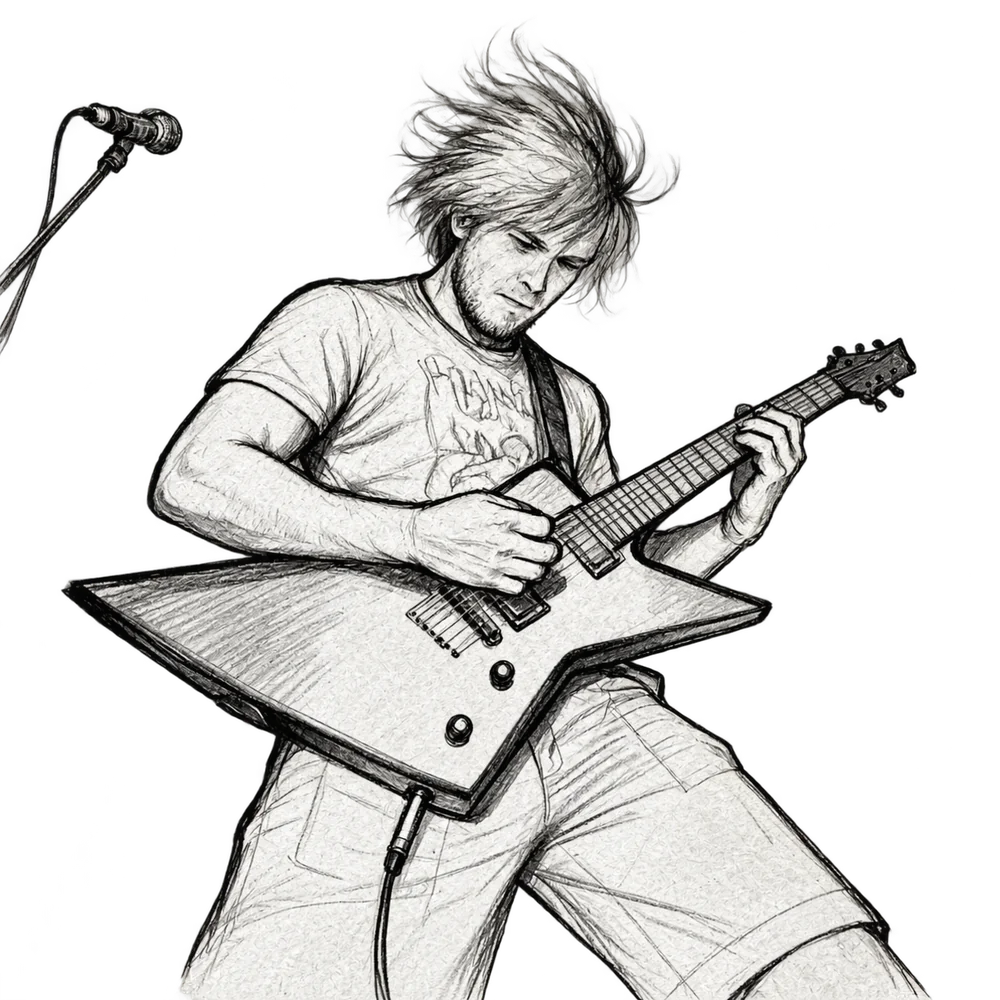
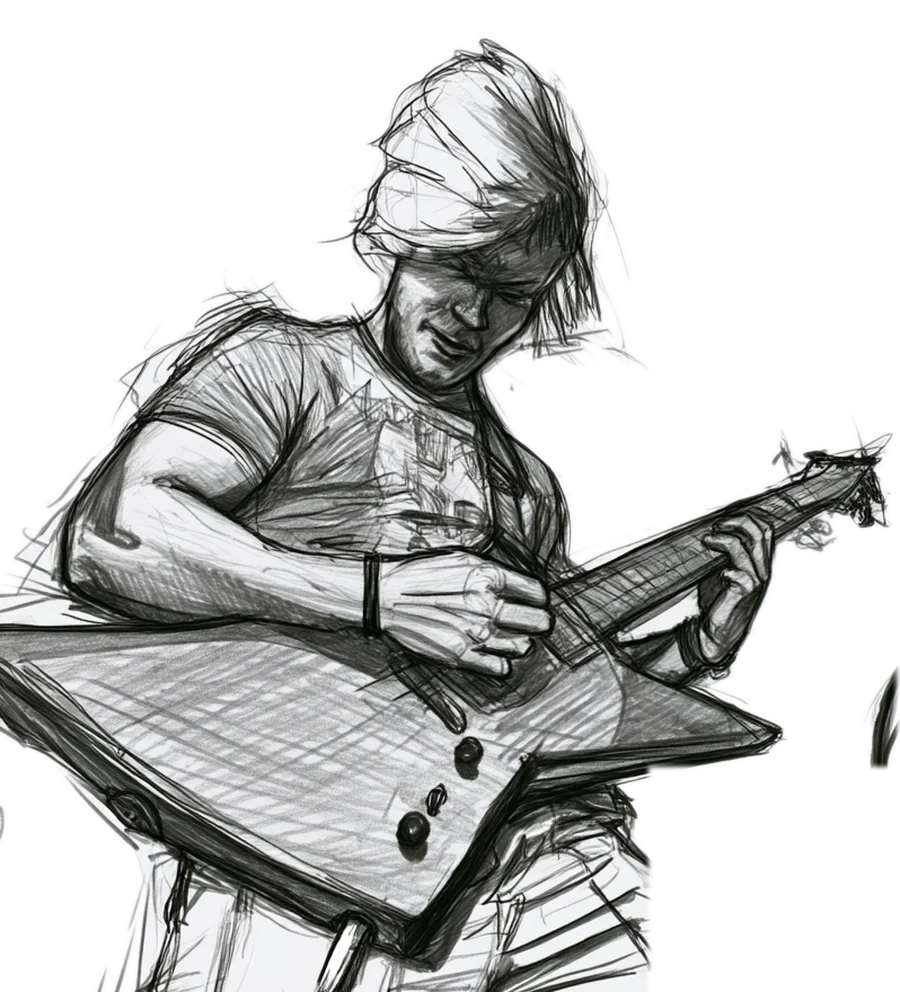
Replace guitarist illustration with new sketch
Claude-Session: https://claude.ai/code/session_01W892ypoJhWwJLEy51dvba3

diff --git a/trigger/site/index.html b/trigger/site/index.html
@@ -359,7 +359,7 @@
   <div class="about__rows">
       <div class="about__row reveal">
         <div class="about__row__art">
-          <img src="assets/guitarist.webp" alt="Живая рок-музыка в Триггер Баре">
+          <img src="assets/guitarist.webp?v=2" alt="Живая рок-музыка в Триггер Баре">
           <span class="about__row__tag">громко!</span>
         </div>
         <div class="about__row__text">
